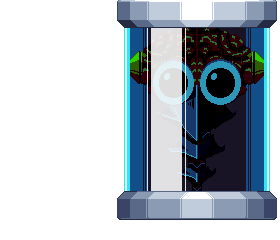
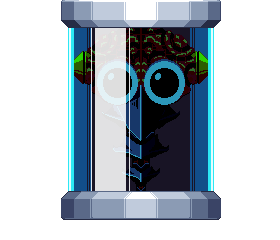
Add uncorrupted remixes. Trying to have hank no fight until the player is right of him.

diff --git a/main/modes/games/platformer/mgCutscenes.c b/main/modes/games/platformer/mgCutscenes.c
@@ -26,7 +26,16 @@ typedef enum
     Sunny,
     WarningMessage,
     SawtoothPostReveal,
-    BlackScreen
+    BlackScreen,
+    TrashManUncorrupted,
+    KineticDonutUncorrupted,
+    JoltLapinUncorrupted,
+    FlareGryffynUncorrupted,
+    CrashTurtleUncorrupted,
+    DeadeyeChirpziUncorrupted,
+    GrindPangolinUncorrupted,
+    SmashGorillaUncorrupted,
+    SeverYagataUncorrupted,
 } cutsceneCharacters;
 
 static void setSongPitchesFromCurrentSong(mgGameData_t* gameData)
@@ -437,9 +446,9 @@ void stageStartCutscene(mgGameData_t* gameData)
             addCutsceneLine(gameData->cutscene, QuestionMark, "I wasn't talking to you, kid. I was talking to them.", false, -1);
             addCutsceneLine(gameData->cutscene, QuestionMark, "Isn't that right...Deadeye?", false, -1);
             addCutsceneLine(gameData->cutscene, SystemText, "The other RemiXs are all revealed in the shadows, in chains. A spotlight falls on DEADEYE CHIRPZI.", false, -1);
-            addCutsceneLine(gameData->cutscene, DeadeyeChirpzi, "Me? ...No. No way... That voice...", true, -1);
+            addCutsceneLine(gameData->cutscene, DeadeyeChirpziUncorrupted, "Me? ...No. No way... That voice...", true, -1);
             addCutsceneLine(gameData->cutscene, QuestionMark, "Hahaha! YES! Deadeye.... Or should I say... Cho. I knew you'd remember me, even after all these years.", false, -1);
-            addCutsceneLine(gameData->cutscene, DeadeyeChirpzi, "... No. It can't be. Is that- HANK?", true, -1);
+            addCutsceneLine(gameData->cutscene, DeadeyeChirpziUncorrupted, "... No. It can't be. Is that- HANK?", true, -1);
             addCutsceneLine(gameData->cutscene, Pulse, "Who??", false, 0);
             break;
         }
@@ -605,18 +614,18 @@ void bossIntroCutscene(mgGameData_t* gameData)
         }
         default: // Hank Final Battle
         {
-            addCutsceneLine(gameData->cutscene, DeadeyeChirpzi, "Hank Waddle?? MY OLD LAWYER?!", true, -1);
+            addCutsceneLine(gameData->cutscene, DeadeyeChirpziUncorrupted, "Hank Waddle?? MY OLD LAWYER?!", true, -1);
             addCutsceneLine(gameData->cutscene, HankWaddle, "HAHAHA! So you DO remember me!!", false, 0);
             addCutsceneLine(gameData->cutscene, SawtoothPostReveal, "Okay-what?! Cho, you seriously need to explain what's happening.", false, -1);
             addCutsceneLine(gameData->cutscene, HankWaddle, "BIGMA, I'm disappointed. You were supposed to be my masterpiece! All that rage! That nostalgia!", false, 0);
             addCutsceneLine(gameData->cutscene, HankWaddle, "I practically gift-wrapped your villain arc!!", false, 0);
             addCutsceneLine(gameData->cutscene, Bigma, "You... corrupted me??", false, -1);
             addCutsceneLine(gameData->cutscene, SawtoothPostReveal, "Cho...?", false, -1);
-            addCutsceneLine(gameData->cutscene, DeadeyeChirpzi, "I - I don't know, but... is this... is this about...what happened back 2024?", true, -1);
+            addCutsceneLine(gameData->cutscene, DeadeyeChirpziUncorrupted, "I - I don't know, but... is this... is this about...what happened back 2024?", true, -1);
             addCutsceneLine(gameData->cutscene, Pulse, "What HAPPENED in 2024?", false, -1);
-            addCutsceneLine(gameData->cutscene, DeadeyeChirpzi, "I, uh.. partied a LITTLE too hard at MAGFest. Woke up in a space station.", false, -1);
-            addCutsceneLine(gameData->cutscene, DeadeyeChirpzi, "Gear missing.. Reality kind of ... bent sideways. It was a whole thing.", false, -1);
-            addCutsceneLine(gameData->cutscene, DeadeyeChirpzi, "And this guy - Hank, my lawyer - was texting me the whole time...", false, -1);
+            addCutsceneLine(gameData->cutscene, DeadeyeChirpziUncorrupted, "I, uh.. partied a LITTLE too hard at MAGFest. Woke up in a space station.", false, -1);
+            addCutsceneLine(gameData->cutscene, DeadeyeChirpziUncorrupted, "Gear missing.. Reality kind of ... bent sideways. It was a whole thing.", false, -1);
+            addCutsceneLine(gameData->cutscene, DeadeyeChirpziUncorrupted, "And this guy - Hank, my lawyer - was texting me the whole time...", false, -1);
             addCutsceneLine(gameData->cutscene, HankWaddle, "Do you have ANY IDEA how much damage you caused?! The legal fallout?! The paperwork?!", false, 0);
             addCutsceneLine(gameData->cutscene, HankWaddle, "You undermined EVERYTHING I built my career on!", false, 0);
             addCutsceneLine(gameData->cutscene, Pulse, "Wait-so you turned into a villain over PAPERWORK?", false, -1);
@@ -625,7 +634,7 @@ void bossIntroCutscene(mgGameData_t* gameData)
             addCutsceneLine(gameData->cutscene, HankWaddle, "You and your... kind ... are a blight on this world!", false, 0);
             addCutsceneLine(gameData->cutscene, HankWaddle, "And with my corruption program, I've shown the world just how destructive you all really are.", false, 0);
             addCutsceneLine(gameData->cutscene, HankWaddle, "I, HANK WADDLE, will finally be the one to right this wrong. ONCE AND FOR ALL!", false, 0);
-            addCutsceneLine(gameData->cutscene, DeadeyeChirpzi, "... We kinda lost touch after that.", false, -1);
+            addCutsceneLine(gameData->cutscene, DeadeyeChirpziUncorrupted, "... We kinda lost touch after that.", false, -1);
             addCutsceneLine(gameData->cutscene, Pulse, "We'll stop you just like we stopped BIGMA!", false, -1);
             addCutsceneLine(gameData->cutscene, SawtoothPostReveal, "Oh... I was SO hoping you'd say that. Cue FINAL BATTLE MUSIC!", false, -1);
             addCutsceneLine(gameData->cutscene, HankWaddle, "IT. IS. SO. ON!!", false, -1);
@@ -859,16 +868,16 @@ void bossOutroCutscene(mgGameData_t* gameData)
         default: // Hank Final Battle
         {
             addCutsceneLine(gameData->cutscene, HankWaddle, "NOOO! NO!! I can't lose to YOU! You're .... A bunch of fakes! Cheap knock-offs!", false, 1);
-            addCutsceneLine(gameData->cutscene, KineticDonut, "Well, duh.", false, -1);
+            addCutsceneLine(gameData->cutscene, KineticDonutUncorrupted, "Well, duh.", false, -1);
             addCutsceneLine(gameData->cutscene, HankWaddle, "WHAT?!", false, 1);
-            addCutsceneLine(gameData->cutscene, GrindPangolin, "You think we don't know that, ya dingus?", false, -1);
+            addCutsceneLine(gameData->cutscene, GrindPangolinUncorrupted, "You think we don't know that, ya dingus?", false, -1);
             addCutsceneLine(gameData->cutscene, DrainBat, "We were born... out of love!", true, -1);
-            addCutsceneLine(gameData->cutscene, DeadeyeChirpzi, "...For everything that came before us!", true, -1);
-            addCutsceneLine(gameData->cutscene, SmashGorilla, "And everything that shaped us.", true, -1);
+            addCutsceneLine(gameData->cutscene, DeadeyeChirpziUncorrupted, "...For everything that came before us!", true, -1);
+            addCutsceneLine(gameData->cutscene, SmashGorillaUncorrupted, "And everything that shaped us.", true, -1);
             addCutsceneLine(gameData->cutscene, Ember, "Flaws and all, baby.", true, -1);
-            addCutsceneLine(gameData->cutscene, SeverYagata, "We're not afraid to carry the torch...", true, -1);
+            addCutsceneLine(gameData->cutscene, SeverYagataUncorrupted, "We're not afraid to carry the torch...", true, -1);
             addCutsceneLine(gameData->cutscene, Jasper, "Or light new ones.", true, -1);
-            addCutsceneLine(gameData->cutscene, FlareGryffyn, "And maybe... even mend what was broken along the way.", true, -1);
+            addCutsceneLine(gameData->cutscene, FlareGryffynUncorrupted, "And maybe... even mend what was broken along the way.", true, -1);
             addCutsceneLine(gameData->cutscene, SystemText, "HANK WADDLE's subsystems start exploding.", false, -1);
             addCutsceneLine(gameData->cutscene, Bigma, "You think we're copies, but that's not the point. We're all echoes of what came before.", true, -1);
             addCutsceneLine(gameData->cutscene, HankWaddle, "What do you mean?", false, 1);
@@ -877,7 +886,7 @@ void bossOutroCutscene(mgGameData_t* gameData)
             addCutsceneLine(gameData->cutscene, Pulse, "We're something new.", false, 1);
             addCutsceneLine(gameData->cutscene, SawtoothPostReveal, "Something that couldn't exist without the past...", false, -1);
             addCutsceneLine(gameData->cutscene, Bigma, "...But doesn't need to live in it.", true, -1);
-            addCutsceneLine(gameData->cutscene, DeadeyeChirpzi, "So... in other words... HANK, you're fired.", true, -1);
+            addCutsceneLine(gameData->cutscene, DeadeyeChirpziUncorrupted, "So... in other words... HANK, you're fired.", true, -1);
             addCutsceneLine(gameData->cutscene, HankWaddle, "No! No no no-if I go down, I'll take you with-AAAAUUUGHHHH!!!!", false, 1);
             addCutsceneLine(gameData->cutscene, SawtoothPostReveal, "Pulse! We have to get out of here!", true, -1);
             addCutsceneLine(gameData->cutscene, BlackScreen, "", false, 0);
@@ -888,10 +897,10 @@ void bossOutroCutscene(mgGameData_t* gameData)
             addCutsceneLine(gameData->cutscene, Pulse, "...LET'S FREAKIN' PARTY!!", false, -1);
             addCutsceneLine(gameData->cutscene, BlackScreen, "", false, 0);
             addCutsceneLine(gameData->cutscene, SystemText, "Starfield. Quiet. Peaceful. Suddenly-a Garbotnik industries craft hurtles past the camera, sparking and trailing smoke.", false, -1);
-            addCutsceneLine(gameData->cutscene, TrashMan, "WHA-HAHA... I regret nothing...", false, -1);
-            addCutsceneLine(gameData->cutscene, TrashMan, "Note to self: recalibrate escape trajectory before launching dramatic exit.", false, -1);
+            addCutsceneLine(gameData->cutscene, TrashManUncorrupted, "WHA-HAHA... I regret nothing...", false, -1);
+            addCutsceneLine(gameData->cutscene, TrashManUncorrupted, "Note to self: recalibrate escape trajectory before launching dramatic exit.", false, -1);
             addCutsceneLine(gameData->cutscene, SystemText, "Suddenly, a floating burrito wrapper hits him in the face.", false, -1);
-            addCutsceneLine(gameData->cutscene, TrashMan, "... Is that my lunch?", false, -1);
+            addCutsceneLine(gameData->cutscene, TrashManUncorrupted, "... Is that my lunch?", false, -1);
             addCutsceneLine(gameData->cutscene, BlackScreen, "", false, 0);
             addCutsceneLine(gameData->cutscene, SystemText, "TRASH MAN WILL RETURN... In whatever sequel he can crash into.", false, -1);
             addCutsceneLine(gameData->cutscene, SystemText, "THANK YOU FOR PLAYING PULSE 20x6!", false, -1);

diff --git a/main/modes/games/platformer/megaPulseEx.c b/main/modes/games/platformer/megaPulseEx.c
@@ -473,6 +473,39 @@ void platformerEnterMode(void)
         // BlackScreen
         addCutsceneStyle(platformer->gameData.cutscene, c555, BLACK_PORTRAIT_WSG, TEXTBOX_SAWTOOTH_WSG, "", 1, false,
                          true, false);
+
+        //uncorrupted Versions.....
+        // TrashMan
+        addCutsceneStyle(platformer->gameData.cutscene, c414, OVO_PORTRAIT_0_WSG, TEXTBOX_OVO_WSG, "Trash Man", 2,
+                         false, true, true);
+        // KineticDonut
+        addCutsceneStyle(platformer->gameData.cutscene, c310, KINETIC_DONUT_PORTRAIT_0_WSG, TEXTBOX_PULSE_WSG, "Kinetic Donut",
+                         1, false, true, true);
+        setMidiParams(platformer->gameData.cutscene, 6, 80, -1, 1000, false);
+        // JoltLapin
+        addCutsceneStyle(platformer->gameData.cutscene, c000, JOLT_LAPIN_PORTRAIT_0_WSG, TEXTBOX_PULSE_WSG,
+                         "Jolt Lapin", 1, true, true, true);
+        setMidiParams(platformer->gameData.cutscene, 7, 80, 1, 250, false);
+        // FlareGryffyn
+        addCutsceneStyle(platformer->gameData.cutscene, c310, FLARE_GRYFFYN_PORTRAIT_0_WSG, TEXTBOX_PULSE_WSG,
+                         "Flare Gryffyn", 1, false, true, true);
+        setMidiParams(platformer->gameData.cutscene, 8, 24, 1, 250, false);
+        // CrashTurtle
+        addCutsceneStyle(platformer->gameData.cutscene, c000, CRASH_TURTLE_PORTRAIT_0_WSG, TEXTBOX_PULSE_WSG,
+                         "Crash Turtle", 1, true, true, true);
+        // DeadeyeChirpzi
+        addCutsceneStyle(platformer->gameData.cutscene, c000, DEADEYE_CHIRPZI_PORTRAIT_0_WSG, TEXTBOX_PULSE_WSG,
+                         "Deadeye Chirpzi", 1, true, true, true);
+        // GrindPangolin
+        addCutsceneStyle(platformer->gameData.cutscene, c310, GRIND_PANGOLIN_PORTRAIT_0_WSG, TEXTBOX_PULSE_WSG,
+                         "Grind Pangolin", 1, false, true, true);
+        // SmashGorilla
+        addCutsceneStyle(platformer->gameData.cutscene, c310, SMASH_GORILLA_PORTRAIT_0_WSG, TEXTBOX_PULSE_WSG,
+                         "Smash Gorilla", 1, false, true, true);
+        setMidiParams(platformer->gameData.cutscene, 15, 29, -1, 250, false);
+        // SeverYagata
+        addCutsceneStyle(platformer->gameData.cutscene, c310, SEVER_YAGATA_PORTRAIT_0_WSG, TEXTBOX_PULSE_WSG,
+                         "Sever Yagata", 1, false, true, true);
         setMidiParams(platformer->gameData.cutscene, 24, 11, 0, 100, true);
     }
 
@@ -1486,7 +1519,8 @@ void updateLevelClear(platformer_t* self)
 
                 changeStateGameClear(self);
             }
-            else if (globalMidiPlayerGet(MIDI_BGM)->paused) // also checks the level clear jingle has finished.
+            // YOOOOOOOO DON'T COMMIT THIS 1
+            else if (true) // globalMidiPlayerGet(MIDI_BGM)->paused) // also checks the level clear jingle has finished.
             {
                 // Advance to the next level
                 /*self->gameData.level++;

diff --git a/main/modes/games/platformer/mgEntity.c b/main/modes/games/platformer/mgEntity.c
@@ -1786,8 +1786,9 @@ void mg_enemyCollisionHandler(mgEntity_t* self, mgEntity_t* other)
             /* Hank is invincible while his visor is closed (state 0). Use state check instead
              * of invincibilityFrames to avoid blinking visibility toggles.
              */
-            if (self->type == ENTITY_BOSS_HANK_WADDLE && self->state == 0)
+            if (self->type == ENTITY_BOSS_HANK_WADDLE && (self->state == 0 || self->state == 7))
             {
+                mg_destroyShot(other);
                 break;
             }
 
@@ -5473,6 +5474,13 @@ void mg_updateBossHankWaddle(mgEntity_t* self)
             else if (self->stateTimer > 12)
             {
                 self->state = 3;
+            }
+            break;
+        case 7: /*pre fight, idle*/
+            self->visible = true;
+            if(self->entityManager->playerEntity->x > self->x)
+            {
+                self->state = 0;
             }
             break;
         default:

diff --git a/main/modes/games/platformer/mgEntityManager.c b/main/modes/games/platformer/mgEntityManager.c
@@ -2537,7 +2537,7 @@ mgEntity_t* createBossHankWaddle(mgEntityManager_t* entityManager, uint16_t x, u
 
     entity->type                 = ENTITY_BOSS_HANK_WADDLE;
     entity->spriteIndex          = MG_SP_BOSS_0;
-    entity->state                = -1;
+    entity->state                = 7;//pre-fight state
     entity->stateTimer           = 0;
     entity->special1             = 0;
     entity->specialX             = 0;
